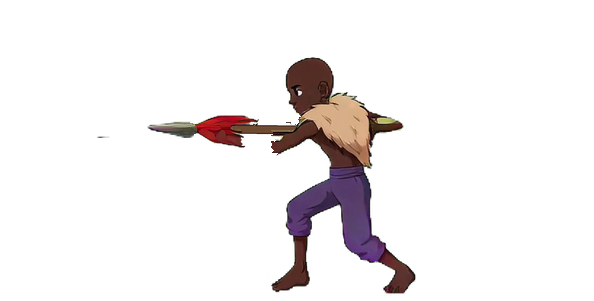
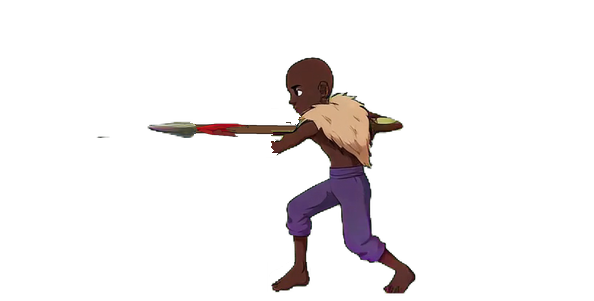
Het vaantje in de steek waait strak naar achteren
In frame 4 tot en met 6 van de steek was het lint nog twee keer zo groot
als in rust (1100 tot 1300 rode pixels tegen zo'n 550), en in frame 7
ruim 750. Nu is het plat langs de schacht naar achteren gedrukt, zo'n 55
bij 15, en in frame 7 een kleinere haak van 48 bij 24: minder doek, wel
vaart. tools/steekvaan.py rekent het in een keer vanuit de oorspronkelijke
frames uit, met nieuwe maten in SCHAAL.

vaanBlauw vindt het platte lint nog helemaal, dus met de speer uit het
skelet is het vaantje ook in de steek blauw.

De speer in de bek van de baviaan komt uit frame 7 en krijgt zo ook het
kleinere lint. Hij houdt nu ook de kleur van de speer die hij pakte: had
Amir de blauwe, dan blijft het vaantje in zijn bek en op de punt naar de
camera blauw (r.blauw, beetSpeerMaak(blauw)). Eerst was die altijd rood.

Claude-Session: https://claude.ai/code/session_01T5mxWuStfF1gYHNxyUXoUJ

Changed region(s): [[0.3333, 0.3588, 0.4545, 0.5083]]

diff --git a/amir-king-of-africa.html b/amir-king-of-africa.html
@@ -6741,12 +6741,15 @@ const BAV_MOND = {
 // het speerbeeld uit stootframe `steek`: tot `tot` de punt met de omwikkeling zoals hij is, daarna de schacht
 // (`schacht`, een stuk zonder handen) herhaald tot `lang`, telkens `zak` lager, zoals de speer in het frame afloopt.
 // `top` en `hoog` is de strook van het frame, `midden` de hoogte van de punt daarin.
+// Met `blauw` het blauwe vaantje van de speer uit het skelet (vaanBlauw), apart bewaard.
 const BAV_SPEER = { top: 100, hoog: 60, tot: 150, schacht: [150, 240], zak: 3, lang: 495, midden: 27 };
-let beetSpeer = null;
-function beetSpeerMaak(){
-  if (beetSpeer) return beetSpeer;
-  const img = atkImgs[BAV_BEET.steek];
-  if (!imgReady(img)) return null;
+const beetSpeer = {};
+function beetSpeerMaak(blauw){
+  const sl = blauw ? 'blauw' : 'rood';
+  if (beetSpeer[sl]) return beetSpeer[sl];
+  const bron = atkImgs[BAV_BEET.steek];
+  if (!imgReady(bron)) return null;
+  const img = vaanBlauw(bron, !!blauw);
   const P = BAV_SPEER, c = document.createElement('canvas');
   c.width = P.lang; c.height = P.hoog + 20;
   const g = c.getContext('2d');
@@ -6772,8 +6775,7 @@ function beetSpeerMaak(){
     tg.fillRect(0, 0, t.width, t.height);
     trap.push(t);
   }
-  beetSpeer = { heel: c, punt, schacht, trap, m };
-  return beetSpeer;
+  return beetSpeer[sl] = { heel: c, punt, schacht, trap, m };
 }
 const bavBeet = new WeakMap();                     // per baviaan waar de speerbeet staat
 let beetVast = null;                               // de baviaan die Amir nu vasthoudt: zolang staat Amir stil
@@ -6819,6 +6821,7 @@ function bavBeetStap(scale){
     swingUsed = true;                             // deze stoot raakt verder niets
     r.fase = 'grijp'; r.t0 = bavKlok; r.wx0 = r.wx; r.uitval = uitval; r.naar = naar;
     r.heel = true; r.punt = true; r.sp = null; r.spT = null;
+    r.blauw = speerBlauw;                         // de speer die hij pakt houdt zijn kleur
     beetVast = b;
     bavBijtSpeel();                               // de hap: de aanzet op de uitval, de klap op de beet
     return;
@@ -6875,7 +6878,7 @@ function bavBeetStand(b, scale){
 // meezwiept met het schudden. Hier breekt ook de schacht af (knap) en vertrekt de punt naar de camera (werp).
 // In schermcoordinaten: mx, my is zijn mond, groundY de grondlijn.
 function bavBeetSpeer(b, st, mx, my, scale, groundY, cx){
-  const r = st.beet, S = beetSpeerMaak(), B = BAV_BEET;
+  const r = st.beet, S = beetSpeerMaak(r.blauw), B = BAV_BEET;
   if (!S || (!r.heel && !r.punt)) return;
   const nu = bavKlok, dt = r.spT == null ? 0 : Math.max(0, Math.min(0.05, (nu - r.spT) / 1000)); r.spT = nu;
   const fd = b.f ? 1 : -1;                        // de speer steekt naar voren uit zijn bek
@@ -6908,7 +6911,7 @@ function bavBeetSpeer(b, st, mx, my, scale, groundY, cx){
   const hoek = Math.atan2(ny, nx * fd);           // gespiegeld getekend als hij naar links kijkt
   if (st.ts != null && st.ts >= bavSchudTijd(B.werp) && r.punt){   // de punt naar de camera
     r.punt = false;
-    beetWerp = { t0: bavKlok, x: mx, y: my, hoek: Math.atan2(ny, nx), fd, schok: false };
+    beetWerp = { t0: bavKlok, x: mx, y: my, hoek: Math.atan2(ny, nx), fd, schok: false, blauw: r.blauw };
     if (wantSound){ const s = document.getElementById('thrust'); s.currentTime = 0; s.volume = 1; s.playbackRate = 0.8; s.play().catch(() => {}); }
     return;
   }
@@ -6957,7 +6960,7 @@ function bavBeetStukken(groundY, scale, cx){
 // weg van het midden van het beeld, en wordt onscherp en donker zoals de voorgrond (de trappen uit beetSpeerMaak)
 function bavWerpTeken(scale){
   if (!beetWerp) return;
-  const S = beetSpeerMaak(), B = BAV_BEET, w = beetWerp;
+  const S = beetSpeerMaak(beetWerp && beetWerp.blauw), B = BAV_BEET, w = beetWerp;
   const p = (bavKlok - w.t0) / 1000 / B.werpDuur;
   if (!S || p >= 1){ beetWerp = null; return; }
   const e = Math.pow(Math.max(0, p), 1.6), groot = 1 / (1 - B.groei * e);

diff --git a/tools/steekvaan.py b/tools/steekvaan.py
@@ -19,7 +19,12 @@ Per frame:
    de linkerkant, bij de punt;
 5. losse stipjes die in het oude lintvak zijn blijven staan weghalen.
 
-Het rode lint blijft rood; het spel kleurt het blauw bij het tekenen.
+Het lint wordt daarbij vooral platter gemaakt, strak naar achteren in de wind, zodat het
+niet meer als een groot doek uitwappert: zo'n 55 bij 15 in frame 4 tot en met 6, 48 bij 24 in
+frame 7 (daar blijft de haak). Frame 7 is ook de speer in de bek van de baviaan (BAV_SPEER).
+
+Het rode lint blijft rood; het spel kleurt het blauw bij het tekenen (vaanBlauw vindt het
+platte lint nog helemaal, nagekeken).
 
 Het is een aanpassing van een keer, en die is al gedaan: de frames in de repository zijn
 bijgewerkt. Draai het alleen op de oorspronkelijke frames (uit de geschiedenis van git);
@@ -48,10 +53,10 @@ MAP = 'karakters/amir/aanval/speerstrike'
 # per frame: (breedte, hoogte) van het lint, en hoeveel pixels aan de kant van de hand
 # niet leeggemaakt worden (in frame 4 en 5 ligt de hand tegen het lint aan)
 SCHAAL = {
-    4: ((0.60, 0.70), 25),
-    5: ((0.45, 0.65), 25),
-    6: ((0.40, 0.62), 25),
-    7: ((0.55, 0.55), -4),
+    4: ((0.51, 0.29), 25),
+    5: ((0.36, 0.25), 25),
+    6: ((0.32, 0.24), 25),
+    7: ((0.50, 0.30), -4),
 }
 TE_KLEIN = 70              # een lint dat al smaller is dan dit is al verkleind
 

diff --git a/CLAUDE.md b/CLAUDE.md
@@ -112,7 +112,7 @@ regelnummer, want die schuiven bij elke wijziging.
 | slangen: kleur, zicht en patrouille | `SNAKE_DIRS`, `slangZiet`, `startPatrouille`, `slangSchuif` |
 | zwarte panter, de witte panter, de hyena | de grote vijanden |
 | baviaan: de eindbaas in wording | `BAVIAAN`, `baviaanLaad`, `baviaanTeken`: nog alleen een plaatje (`enemies/baviaan/baviaan.png`, uit `tools/baviaan_knip.py`, dat de magenta achtergrond van `baviaan_base_magenta.png` ontmengt), zonder gedrag. In de sandbox onder Vijanden, Baviaan (`sbBaviaan`, `sbBavStap`): neerzetten, schuiven, van maat veranderen en spiegelen; `level.baviaan = {x, y, s, f}`, `y` en `s` in Amir. De afzet (`BAV_AFZET`, `bavStand`, `bavAfzetWissel`): 44 frames in `enemies/baviaan/afzet/` op een gedeeld canvas, een keer; tot frame 8 heeft hij zijn arm nog aan de wand (op 15 per seconde, `delen`); een schaal voor de hele reeks uit het kader van de baviaan in frame 0 (`kader`), zodat hij precies over het losse plaatje valt. Het hangen, de afzet en de val zijn kleiner getekend dan de staande frames (zijn kop zo'n 60 bronpixels tegen 80 tot 90), dus die tekent het spel `BAV_GROEI.hang` (1,12) keer zo groot (1,25 maakte hem even groot, maar hangend te fors; zo lijkt hij aan de wand wat kleiner en richt hij zich na de landing op tot iets groters), vanuit de grondlijn van het canvas, ook het losse plaatje; in de landing loopt dat tot frame `tot` (10) zacht terug naar 1 (`bavGroei`, het veld `groei` uit `bavStand`), zodat het krimpen in het opvangen valt en de overgang naar de brul naadloos blijft. De schaduw, het stof bij de landing (`bavBronX`) en de camera (`bavKijk`) rekenen die groei mee. Zijn schaduw is die van Amir (`bavSchaduw` roept `drawAmirSchaduw` aan, en vervaagt met hem als hij doodgaat): zijn eigen frame als silhouet, een omgevingsschaduw recht onder hem en een zonneschaduw van de zon af, met de voeten op de grondlijn van het canvas (rij 576, bij de sprong `BAV_SPRONG.grond` 770); hoog aan de wand is er nog niets, in de val komt hij op. Bij frame `los` (10) laat hij los: vanaf daar maakt het hele canvas een valboog (vooruit met `vx`, eerst even `op` omhoog, omlaag met `zwaar` keer `GRAVITY`, want met de zwaartekracht van Amir zweefde hij naar beneden; `bavValDuur`) en speelt de rest van de afzet (oprollen en uitstrekken) in de lucht, uitgerekt over de valtijd, op minstens `luchtMin` per seconde. Eerst viel hij pas bij frame 32 en hing hij daarvoor opgerold stil in de lucht. Is de afzet op en valt hij nog, dan de val (`BAV_VAL`): 8 frames in `enemies/baviaan/val/` op hetzelfde canvas en dezelfde schaal, als lus. De val stopt als de grondlijn van het canvas (`grond`, bronrij 575) de grond raakt, 40 bronpixels onder zijn handen. De landing (`BAV_LANDING`): 25 frames in `enemies/baviaan/landing/`, een keer, en dan het laatste, met het tempo per stuk in `delen`: frame 0 tot 4 op 40 per seconde (zijn handen reiken naar de grond en vangen de klap, in frame 4 tot 6 tot 10 bronpixels eronder, zo bedoeld), de rest op 24 (op 12 zag je elke stap; samen nu 0,9 seconde). Hij begint `vroeg` (0,05) seconde voor het canvas de grond raakt, en daarna loopt de vaart vooruit in `uit` (0,12) seconde uit, zodat hij niet in een beeld stilstaat. Van 1,5 Amir hoog duurt de val zo 0,43 seconde. Waar hij de grond raakt stuift het op (`BAV_STOF`, `bavStof`, met de plek uit de frames via `bavBronX`): een lage wolk en korrels bij de klap van de wand (landing frame 3 en 5) en na een sprong (sprong frame 23, de afzet op 6), een wolkje en wat korrels achter elke pas (run frame 4 en 10), en remstof naar voren aan het eind van de uitval van een hap, als hij uit zijn run stilhoudt bij de kooi en als hij omdraait. In de sneeuw (Winter World, of het veld `sneeuw` vanaf `sneeuwVanaf`) is dat poedersneeuw en kristallen (`snowBurst`, `snowFxPush`), in het water of boven een ravijn niets. De zandwolken staan in `wdust` met een eigen dekking (`a`, `BAV_STOF.dicht`), want `stofwolk.png` is ijl. Direct daarna de brul (`BAV_BRUL`): 24 frames in `enemies/baviaan/brul/`, een keer, en dan het laatste, met het geluid `sounds/babrawr.mp3` (`bavBrulSnd`, ook in `geluidOntgrendel`), op gewoon volume (`geluid.vol` 1): de eerste van de twee brullen. Het tempo loopt mee met het geluid (`delen`, met `deelFrame` en `deelTijd`): overeind komen (0 tot 6) op 20 per seconde (daar springt hij 25 tot 33 bronpixels per frame), de bek wijd open (7 tot 19) op 10 zodat dat over het luide stuk van 1,3 seconde valt, dicht (20 tot 23) over het uitsterven; het geluid start 0,05 seconde voor frame 7, een keer per afzet; brul_00 is de pose van het laatste landingsframe. Dat canvas is 542 breed in plaats van 493 en begint 44 bronpixels links van het landingscanvas (`links`, in `bavStand` als `ox`), met dezelfde bovenkant, grondlijn en schaal; gespiegeld schuift het vanzelf naar rechts. Na de brul loopt nu de grommende idle (`BAV_IDLE_GROM`, zijn hoofd-idle op de grond): 39 frames in `enemies/baviaan/idle_grom/` als naadloze lus, op hetzelfde canvas als de brul, met `enemies/baviaan/idle_grom_metadata.json` erbij. Welke idle er na de brul loopt kiest `BAV_NA_BRUL` (`'grom'` of `'opgefokt'`); er wordt niet tussen die twee gewisseld. Met `'opgefokt'` loopt de opgefokte idle (`BAV_IDLE_OP`): 12 frames in `enemies/baviaan/idle_opgefokt/` als lus, op precies hetzelfde canvas als de brul. Daartussen komt later nog een korte opstaan-animatie; tot die er is verspringt de houding daar even. Na de brul volgt een vast verloop (`BAV_VERLOOP`, `bavRustStand`): idle, hoofdschudden (`BAV_SCHUD`, 64 frames in `enemies/baviaan/hoofdschudden/`, op hetzelfde canvas, met de shake een keer extra rond (`herhaal`: frame 46 is precies frame 18, dus 18 tot 45 is een naadloze ronde; `bavSchudReeks`), samen 2,2 seconden, en met het grommen `sounds/bavgrom.mp3` erbij: `bavGromSpeel` bij het begin van elk schudden, via een eigen gain op de versterker van de brul (`bavGromGain`), ook in `geluidOntgrendel`; de aangeleverde monkey growl geknipt tot 2,23 seconden, van 0,03 tot 2,26, zodat de uithalen op de shake vallen en het uitsterven op het weer omhoog komen), idle, en de grote brul (`BAV_ROAR.groot`), en dan stormt hij (`BAV_RUN`). Er zijn dus twee brullen: de eerste bij de landing op gewoon volume, en de grote, drie keer zo hard. De grote zijn de brulframes vanaf frame 6 (`van`: brul_00 is de lage landingshouding, en uit de rechtop staande idle zakte hij dan eerst door zijn knieen) met een eigen tempo per stuk, en `babrawr.mp3` veel harder (`vol` 3, boven 1 via `bavBrulVersterker`, ook in `geluidOntgrendel`) en trager en dieper (`rate` 0,8, zonder vaste toonhoogte), via `bavBrulSpeel(vol, rate)`. Van frame 7 tot 20 (`tril`) trilt het scherm licht (`shake`), rommelt de aarde zacht (`bavBeving`: het geluid van een ravijn dat openscheurt, `deurSnd` via `deurVersterker`, op `beving` van zijn volume) en trillen er steentjes op de grond (`BAV_STENEN`, `bavStenenStart`, `bavStenenTeken`: dezelfde steentjes als rond een openscheurend ravijn, `ravijnStenenNu`, verspreid over het beeld maar niet op een kei, getekend direct na de grond in `scene()` zodat het decor eroverheen valt, en een paar pixels hoog, zoals bij het ravijn). Van de landing tot hij stormt zo'n 7 seconden. De run: 17 frames in `enemies/baviaan/run/` als lus, canvas 790 bij 592, dat 108 bronpixels links van het canvas van de brul begint (`links` is dus 44 plus 108), met de grondlijn ook op rij 575. Hij rent even snel als Amir sprint (`bavV`: `v`, 495 wereld-px per seconde, 330 lopend maal 1,5 met Shift, maal `walkK()` als je Amir in de instellingen trager of sneller zet). Alles van de baviaan loopt op speltijd (`bavKlok`, in de lus opgeteld met `dt`), niet op `performance.now()`: op een telefoon zet het spel het tempo lager (`gameTempo`, zo'n 0,75) en daar moet hij in meelopen, anders is hij daar sneller dan Amir; in de pauze staat hij stil, zodat je hem niet ontloopt, en het tempo van de frames loopt mee zodat zijn voeten niet glijden: de voet op de grond schuift in de frames `pas` (40) bronpixels per frame naar achteren, dus v / (pas maal de schaal) frames per seconde, op 1280 bij 720 zo'n 34, geklemd tussen `fpsMin` en `fpsMax` (20 en 36). Hij volgt de grond onder zich. Na het verloop is hij een tegenstander (`bavVecht`, `bavGevecht`, `BAV_VECHT`): hij rent op Amir af en draait om aan het begin van een pas als Amir achter hem staat; zijn plek staat dan in `r.wx` (wereld-px vanaf `b.x`, los van de kant waar hij op kijkt). Komt de voorkant van zijn lijf binnen het bereik van Amirs speerstoot (`BAV_HAP.speer`: de verste punt uit `TIP_DX` plus de punt zelf, 333 eenheden, en `marge`), dan hapt hij meteen, midden in een pas (`BAV_HAP`): 26 frames in `enemies/baviaan/hap/`, op hetzelfde canvas als de run. Het tempo staat per stuk in `delen` (`bavHapFrame`, `bavHapTijd`): het opendoen en de uitval (frame 0 tot 10) in 0,12 seconde, het bijten (11 tot 13) en terugtrekken op 40 per seconde. In de uitval schiet hij het stuk tot Amir over (`uitval`, tot 1,6 Amir); zijn plek volgt daarbij de tijd, niet de beelden, zodat hij er ook bij een haperend beeld helemaal komt. Zo valt de beet samen met het moment dat je had kunnen steken, en zie je niet wie eerst was. Een kei tussen hem en Amir houdt hem tegen (regel 7), dus daar springt hij overheen (`BAV_SPRONG`): 32 frames in `enemies/baviaan/sprong/` op 24 per seconde, canvas 900 bij 800 met de grondlijn op rij 770, 154 bronpixels links en 195 boven het canvas van de brul (`links` 198, `boven` 195; `oy` in `bavStand`). De frames stijgen niet zelf: 10 tot 22 zweven al boven de grondlijn, en het spel tilt hem daarbovenop in een boog op, per kei zo hoog dat hij er met `marge` overheen komt (`zweeft`, `boog`). Vooruit per stuk in `snel` (in de hurk en de landing afgeremd, afzetten en de lucht 1,7 keer zijn rensnelheid, `bavSprongWeg`); hij zet af als het midden van zijn lijf halverwege de lucht boven het midden van de kei komt, en gaat na `sprong_29` terug naar run_00. Gemeten: in elk frame boven een kei 12 tot 105 px ruimte. In een level staat hij in het veld `baviaan` (`{x, y, s, f, zicht, kooi, beet}`, `readLevel` zet er `lvl` en `f0` bij; met `beet: true` hangt hij niet maar staat hij op de grond voor de speerbeet, zie hieronder): hij hangt aan de wand tot Amir `BAV_START` px gelopen heeft vanaf waar hij begon (`b.start`). Met `zicht` (een deel van de schermbreedte) begint Amir niet op 0 maar zo dat de baviaan daar in beeld hangt (`startWereld`, in `restart`; zijn speer staat dan `SPEAR_AHEAD` voor die plek): Amir staat in het midden, dus op een telefoon begint hij dichter bij de baviaan dan op een laptop, en nooit dichter dan 50 px bij de rotswand. Zolang hij hangt of valt kijkt de camera wat omhoog (`bavKijk`, `BAV_KIJK`, in `updateCamera`; na een herstart meteen, `bavKijkNu`), zodat hij ook op een telefoon met de knoppen erbij helemaal in beeld hangt; bij de landing (`b.geland`) zakt hij terug. In Test 15 en 16 hangt hij zo op x 720 en 1,6 Amir hoog tegen de rotswand achter de hut (`zicht` 0,68), en de eerste tip komt pas als je gaat lopen (x 300), want in het begin viel hij op een telefoon over de baviaan en speelt dan het hele stuk af, en `restart` hangt hem terug. De sprong heeft stukken (`bavSprongDelen(rek, maal)`, met `deelFrame` en `deelTijd`): bij een kei is de lucht zoals hij was, over de kooi duurt de lucht langer en gaat hij sneller. De kooi (`kooi`: de x van twee ravijnen, `bavKooi`, `bavKooiKant`, `BAV_KOOI`): de baviaan komt nooit op het stuk ertussen. Vlucht Amir de kooi in van de kant waar de baviaan staat, dan rent hij naar de rand en springt over allebei de ravijnen naar de overkant; gaat Amir eruit aan de andere kant, dan springt hij meteen en landt hij voor Amir. Na zo'n sprong draait hij om en brult (fase `brul`, met het geluid via `bavBrulSpeel`); staat Amir in de kooi, dan wacht hij grommend (fase `wacht`), en over een ravijn van de kooi hapt hij nooit. Test 15 is het proefstuk. In de sandbox zet Neerzetten met Van rechts (achter Amir) er twee keien voor Amir bij (`BAV_KEIEN`, 520 en 1250 px voor hem uit), waar Amir overheen springt en de baviaan dus ook. Bij elke hap klinkt `sounds/bavbijt.mp3` (`BAV_BIJT`, `bavBijtSpeel`: de aangeleverde bijtmonster met de 0,4 seconde stilte vooraan eraf, zodat de aanzet op de uitval valt), en onder het rennen gromt hij (`BAV_REN_GROM`, `bavRenGrom`: de grom van het hoofdschudden sneller en hoger, elke keer een andere `rate`, iets zachter en met een pauze ertussen, op een eigen audio-element `bavRenSnd`; een hap zet hem stil en de volgende komt pas `naHap` later). Alle geluiden van de baviaan gaan via een eigen gain op de versterker van de brul (`bavSpeelVia`) en staan in `geluidOntgrendel`. Raakt hij, dan staat hij `rust` (2) seconden grommend stil en rent weer; mis is meteen weer rennen. Zo is hij niet te verslaan (`BAV_VECHT.raakbaar` staat uit): een steek of de lage zwaai doet hem niets en een geworpen speer ketst af. Met `raakbaar` aan doodt een klap hem (`bavRaak`), net als de speerval: hij brult nog een keer (de brulframes vanaf `BAV_DOOD.brulVan` 6, met het geluid op gewoon volume) en zakt dan in elkaar (`BAV_DOOD`: 22 frames in `enemies/baviaan/dood/` op 24 per seconde, een keer, zo'n 0,92 seconde; 00 tot 03 de klap, 04 tot 09 zakken, 10 tot 15 zijn poten begeven het, 16 tot 19 voorover, 20 en 21 dood). Daarna blijft `dood_21` liggen, als lijk, zonder te vervagen, met zijn schaduw. Canvas 830 bij 592, grondlijn op rij 575, 140 bronpixels links van het canvas van de brul (`links` 184, dus 32 links van de run en de hap). De frames zijn aangeleverd zoals ze zijn: niet bijsnijden, schalen of opnieuw opslaan. `vijandDood(true)` ("ta soul, rest") komt als hij neerligt (`rust`, frame 20), niet op de klap, zodat het niet door de brul heen klinkt. In de sandbox doodt de knop Dood hem meteen (`bavDoodNu`), ook aan de wand of midden in het verloop. Het raakbare lijf komt uit het kader van zijn frame (`bavKader`, `bavGeo`), de bek is een vast vak in bronpixels (`BAV_VECHT.bek`, de kop met open kaken in hap_11 tot 13, 0,55 tot 1,06 Amir hoog: springen of bukken ontwijkt hem niet); met de hitboxen aan zie je ze. In vier van de aangeleverde frames waren handen en voeten uitgesmeerd tot een halfdoorzichtige vlek (run_00, 01 en 16) of ontbraken ze (de onderarm in run_12): `tools/baviaan_run_fix.py` maakt de speelversie in `enemies/baviaan/run/` uit de ongewijzigde bron in `enemies/baviaan/bron/run/`, door schone stukken uit andere frames erop te plakken (de hand van run_15, de achterpoot en de hand van run_02, de onderarm van run_13); de andere dertien frames kopieert het ongewijzigd. Verandert de bron, draai het dan opnieuw. De stukken idle staan in `BAV_VERLOOP.wacht` (een per stap, 0,5 tot 1,0 seconden, elke keer willekeurig). Bij de opgefokte idle begint het schudden op het einde van de lus, bij de grom meteen, want daar verspringt de houding toch al (het schudden begint en eindigt rechtop, de grom staat laag). Het tempo staat per stuk in `delen` (`bavSchudFrame`): omlaag en omhoog op 40 per seconde, de shake zelf (frame 18 tot 47) op 42, met een ronde extra samen 2,2 seconden. De stand daarvan staat in `bavRust`, niet in `level.baviaan`. K of de knop Hoofdschudden schudt meteen, zolang hij nog niet stormt (`bavSchudNu`). De val eindigt op de grond waar hij neerkomt, niet waar hij afzette (`bavLandPlek`): op een terras komt hij erbovenop, en hoe hoger hij hangt, hoe langer de val-lus doorloopt. In de sandbox hangt hij na Neerzetten op `BAVIAAN.hang` (1,5 Amir) en kan hij niet lager dan `minHang` (0,8), zodat er altijd een echte val is; J of de knop Afzet speelt het hele stuk af (afzet, val, landing, brul, het verloop met twee keer schudden, en dan stormt hij tot je nog een keer drukt), nog een keer is terug naar het plaatje. Staat niet in de kleine set |
-| speerbeet: de baviaan pakt je speer | `BAV_BEET`, `BAV_MOND`, `BAV_SPEER`, `bavBeetStap` (in de lus, na de stoot: wanneer het begint, Amir vast met `beetVast`, de uitval, de klem, de ruk), `bavBeetStand` (vanuit `bavStand` als `level.baviaan.beet` staat: de grom-idle, hap_00 tot 25, het hoofdschudden), `bavBeetSpeer` (de speer in zijn bek, achter zijn kop, met het uiteinde aan een veer; hier breekt de schacht en vertrekt de punt), `bavBeetStukken` (de schacht en de splinters), `bavWerpTeken` (de punt naar de camera, na de voorgrond, met de onscherpe en donkere trappen uit `beetSpeerMaak`), `beetKnipX` (Amirs speer houdt op bij de lip, geknipt bij het tekenen van Amir), `beetReset` (in `restart`). Alleen bestaande frames: de speer is Amirs eigen speer uit stootframe 6, de mond per frame is gemeten op de tanden. Zolang `beetVast` staat, doen springen, stoten, E en bukken niets. In de sandbox **Speerbeet** onder Vijanden, Baviaan (`sbbavbeet`). Baboon 1 is het proefstuk |
+| speerbeet: de baviaan pakt je speer | `BAV_BEET`, `BAV_MOND`, `BAV_SPEER`, `bavBeetStap` (in de lus, na de stoot: wanneer het begint, Amir vast met `beetVast`, de uitval, de klem, de ruk), `bavBeetStand` (vanuit `bavStand` als `level.baviaan.beet` staat: de grom-idle, hap_00 tot 25, het hoofdschudden), `bavBeetSpeer` (de speer in zijn bek, achter zijn kop, met het uiteinde aan een veer; hier breekt de schacht en vertrekt de punt), `bavBeetStukken` (de schacht en de splinters), `bavWerpTeken` (de punt naar de camera, na de voorgrond, met de onscherpe en donkere trappen uit `beetSpeerMaak`), `beetKnipX` (Amirs speer houdt op bij de lip, geknipt bij het tekenen van Amir), `beetReset` (in `restart`). Alleen bestaande frames: de speer is Amirs eigen speer uit stootframe 6, de mond per frame is gemeten op de tanden. Had Amir de blauwe speer uit het skelet, dan houdt de speer in zijn bek dat blauwe vaantje (`r.blauw`, `beetSpeerMaak(blauw)` via `vaanBlauw`, ook de punt naar de camera). Zolang `beetVast` staat, doen springen, stoten, E en bukken niets. In de sandbox **Speerbeet** onder Vijanden, Baviaan (`sbbavbeet`). Baboon 1 is het proefstuk |
 | voorgrond: de laag tussen de camera en Amir | `VOORGROND`, `VG_SOORT`, `VG_LAGEN`, `vgStandaard`, `drawVoorgrond`: onscherp gras, struiken, keien en een schedel vlak voor de camera, in twee lagen; schuift sneller dan de wereld, ook verticaal, en valt onder de grond weg. Elk level heeft er een (zie "de voorgrond hoort bij elk level") |
 | achtergrondlagen, uitzicht per level | `SCENE0` en `SCENES` |
 | startscherm, level maken, menu: kaartjes per level | menu en bouwer |
